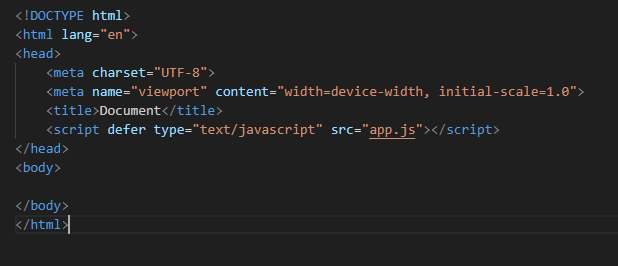
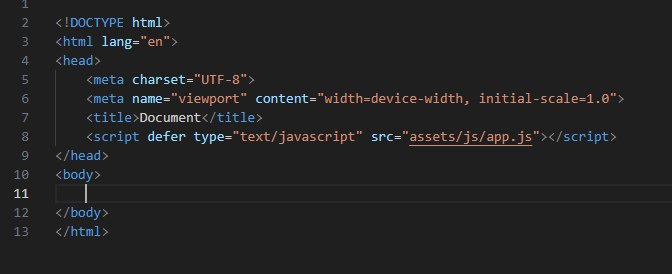
opdrachten 4

diff --git a/04 inserts/02 insert.md b/04 inserts/02 insert.md
@@ -6,17 +6,106 @@ laten we eerst de insert in de database even oefenen:
 - maak een nieuwe file:
     - `02 insert naw.sql`
 - zet daar het volgende in:
-
-</br>![](img/insertlines.PNG)
+    > </br>![](img/insertlines.PNG)
 
 ## testen
 
 - test je script en kijk of alles lukt:
-</br>![](img/insert.PNG)
+    > </br>![](img/insert.PNG)
 - check nu de data in je table met deze select:
-</br>![](img/selecttest.PNG)
+    > </br>![](img/selecttest.PNG)
     - resultaat:
-    </br>![](img/select.PNG)
+    > </br>![](img/select.PNG)
 
 
 ## Naar php
+
+Nu gaan we dit in php ook doen.
+- open je `search.php`
+    - include hier je `database.php` (waar je database connection/gegevens staan)
+    > </br>![](img/includedb.PNG)
+> Let even op het pad, zie je de `..` we gaan `relatief` naar waar `database.php` staat want die staat niet in dezelfde directory
+
+- neem nu de code hieronder over in `search.php`
+    > </br>![](img/helperfunc.PNG)
+
+> dit is een helper function waarmee je iets wat je anders elke keer zou moeten schrijven nu op 1 plek maakt
+
+## FindPersoon
+
+- nu gaan we onze function maken om personen mee te zoeken:
+    - neem deze code over :
+    > </br>![](img/FindPersoon.PNG)
+
+> Wat doet deze function?
+> - de function heeft 2 argumenten:
+>  - $conn, het mysqli connectie object
+>  - $name, de zoekopdracht 
+> - als de `function` fout gaat geeft het een lege lijst terug, dat is `SOMS` netjes
+> - de `function` voert de query `q` uit op via het `prepared statement` patroon (hack veilig)
+> - dan roept het de helper function `GetResults` aan die de `$result` in rijen met data verandered
+
+- Maak de function werkend:
+    - schrijf de query om * te selecteren uit `naw`
+    - gebruik een `where` om te filteren op `naam`
+        - LET OP: je zet voor de waarde niet `$name` daarin maar `?` vanwege de prepared statement
+
+## testen
+
+- nu nog testen, gebruik deze code
+    > `LET OP`, misschien heten jullie `$user`,`$pass, etc anders, check je `database.php`
+    > </br>![](img/aanroep.PNG)
+
+
+> - zie je dat we eerst de connection maken?
+> - daarna geven we de connection door
+> - dan maken we een variabel `$searchResults` en halen de resultaten op met `FindPersoon` en die komen dan in `$searchResults`
+> - `echo json_encode`, maakt van de `$searchResults` een `JSON` text die je kan tonen
+
+- test en controlleer of je dit krijgt:
+    > </br>![](img/leraargevonden.PNG)
+- zoek nu ook leraar1
+    - maak een screenshot, save die als `leraargevonden.png`
+
+## meer data
+
+
+- maak een nieuwe file:
+    - `03 insert naw.sql`
+- zet daar 3 nieuwe personen in (verzin ze zelf)
+    - gebruik geen echte data!
+    
+## testen
+
+- zoek nu ook alle 3 je personen uit de `meer data` stap
+    - maak een screenshot voor elke zoekactie
+
+## JSON, MIME en headers
+
+- je json ziet er nog niet zo uit:
+    > </br>![](img/jsongood.PNG)
+
+> dat komt omdat we onze header nog niet goed hebben gezet
+> - de response komt terug als type text/html:
+> </br>![](img/html.PNG) 
+ 
+- maak van je code zodat het er zo uitziet: 
+> </br>![](img/header.PNG) 
+
+> - zie je die header daar? we zeggen nu dat de response nu `application/json` is
+> </br>![](img/jsontype.PNG) 
+
+## Testen
+
+- zoek nog een keer, krijg je nu dit?
+> </br>![](img/error.PNG) 
+- zoek in je `search.php` andere naar `echo` regels dan die van de `json_encode`
+    - haal die weg met commentaar `//`
+
+- zoek nog een keer krijg je nu dit:
+    > </br>![](img/jsongood.PNG)
+- zoek je eigen verzonnen persoon
+    - maak een screenshot en sla op in `mooiejson.png`
+
+## Klaar?
+- commit naar je github

diff --git a/04 inserts/03 read json.md b/04 inserts/03 read json.md
@@ -1,0 +1,84 @@
+## JSON ontvangen
+
+`search.php` geeft nu json terug. Daar kan javascript wat mee!
+
+We gaan nu verder in `search.html`, daar gaan we met `fetch` naar `search.php`
+en dan lezen we de  `response` in javascript in
+
+## submit met javascript
+
+- open je `search.html`
+    - pas je code aan zodat het formulier een id heeft:
+    > </br>![](img/searchid.PNG)
+
+- open je `app.js`
+    - we gaan `searchForm` selecteren en in javascript halen:
+        > </br>![](img/selectsearch.PNG)
+
+- maak een nieuwe function, gebruik deze code:
+        > </br>![](img/searchpersoonfunc.PNG)
+
+
+- nu zorgen we ervoor dat wij de submit afhandelen:
+        > </br>![](img/bind.PNG)
+
+## STOP!
+
+Als we nu submit clicken gaan we gewoon naar `search.php`:
+- test dit
+
+- zet nu in je `searchPersoon` function de volgende regel code:
+  - `event.preventDefault();`
+
+- test nu nog een keer
+    - nu ga je niet meer door, dat willen we!
+## Url maken
+
+Nu moeten we een `url` maken, daarvoor hebben we de `search input` nodig uit het formulier.
+- zet dit in je searchPersoon function:
+    > </br>![](img/getdata.PNG)
+- `console.log` de `url` en test je code:
+    > </br>![](img/urlcheck.PNG)
+
+
+## FETCH
+
+- nu gaan we met fetch de data ophalen en tonen:
+    > </br>![](img/getdata.PNG)
+
+
+## searchPersoon function
+
+nu moeten we de code gaan schrijven.
+
+- Zet de fetch in je searchPersoon onder waar je de url gemaakt hebt:
+    > </br>![](img/fetch.PNG)
+
+- test en kijk bij je `network` in je `web developer tools` van je `browser` of je de `fetch` ziet staan:
+    > </br>![](img/networkfetch.PNG)
+
+- nu moeten we nog reageren op de fetch:
+    - haal de `;` achter `fetch` weg
+    - ga naar de `volgende` regel (enter), en type daar:
+    > </br>![](img/then.PNG)
+
+> - `fetch` levert een `promise` op, met then `reageer` je op wanneer de fetch `klaar` is, een beetje zoals een `event`
+> - tussen de haken van `then` staat een nieuwe `anonieme function`
+>       - het argument van de function is `response` wat het resultaat van de fetch is
+
+## TEST!
+
+- test en kijk of je dit krijgt:
+    > </br>![](img/fetchthenresult.PNG)
+
+## JSON
+
+nu nog de JSON lezen
+
+- pas je then aan naar dit stuk code:
+    > </br>![](img/logjson.PNG)
+
+> nu blijven we op de `search.html`, maar gaan wel naar `search.php`, en krijgen `data` terug. Dat is hoe veel moderne sites werken!
+
+## Klaar?
+- commit naar je github

diff --git a/04 inserts/01 naw table.md b/04 inserts/01 naw table.md
@@ -15,17 +15,16 @@ en we hadden er een `method="POST"` van gemaakt, ook konden we het in `php` leze
     - `04 inserts`
 - kopieeer je werk in `02 formulieren` naar `04 inserts`
 - maak een sql file aan:
-    - `01 naw.sql`
+    - `01 m6prog.sql`
 
 ## Table maken
 
 > HINT check je `sql` van ` design naar table.md`
 
 - open `01 naw.sql` in je `visual studio code`
-- type eerst je `CREATE SCHEMA` & `USE`:
-    - je schema gaat heten:
-        - `personenNaw`
-
+- type eerst je `USE`:
+        - `use m6prog;`
+> `CREATE SCHEMA` is niet nodig omdat docker dit voor je doet
 
 - we gaan nu een `create table` gebruiken om de volgende table te maken:
     - de table krijgt de naam `naw`

diff --git a/02 formulieren/01 search form get.md b/02 formulieren/01 search form get.md
@@ -8,12 +8,17 @@ We gaan deze keer met html een formulier maken. De data uit dit formulier wordt 
 
 ## files maken
 
-- Maak een map aan in je `M6Prog` map:
-    - `02 formulieren`
-- maak de volgende files aan:
+- maak een directory in je `M6PROG` met de naam:
+    - `opdrachten`
+        - maak daarin de directory:
+            - `02 formulieren`
+- maak de volgende files aan in `02 formulieren`:
     - `search.html`
     - `naw.html`
-    - `app.js`
+- maak een directory in je `02 formulieren` met de naam:
+    - `assets`
+        - maak daarin de map `js`
+            - maak in js de file `app.js`
 
 ## HTML inhoud
 

diff --git a/04 inserts/04 display data as html.md b/04 inserts/04 display data as html.md
@@ -1,0 +1,9 @@
+## JSON naar HTML
+
+Cool we hebben nu JSON data welke uit de database gekomen is. Maar nu nog een resultaat laten zien toch?
+
+## HTML klaarmaken
+
+- open je `search.html`
+    - voeg een `section` tag toe ONDER je formulier (dus naar de `</form>`)
+- geef die section een 

diff --git a/01 project en design/02 design.md b/01 project en design/02 design.md
@@ -6,7 +6,9 @@ We gaan weer van design naar een table werken
 ## Directory
 
 - maak een directory in je `M6PROG` met de naam:
-    - `01 design`
+    - `opdrachten`
+        - maak daarin de directory:
+            - `01 design`
     
 ## Even herhalen, samen
 
